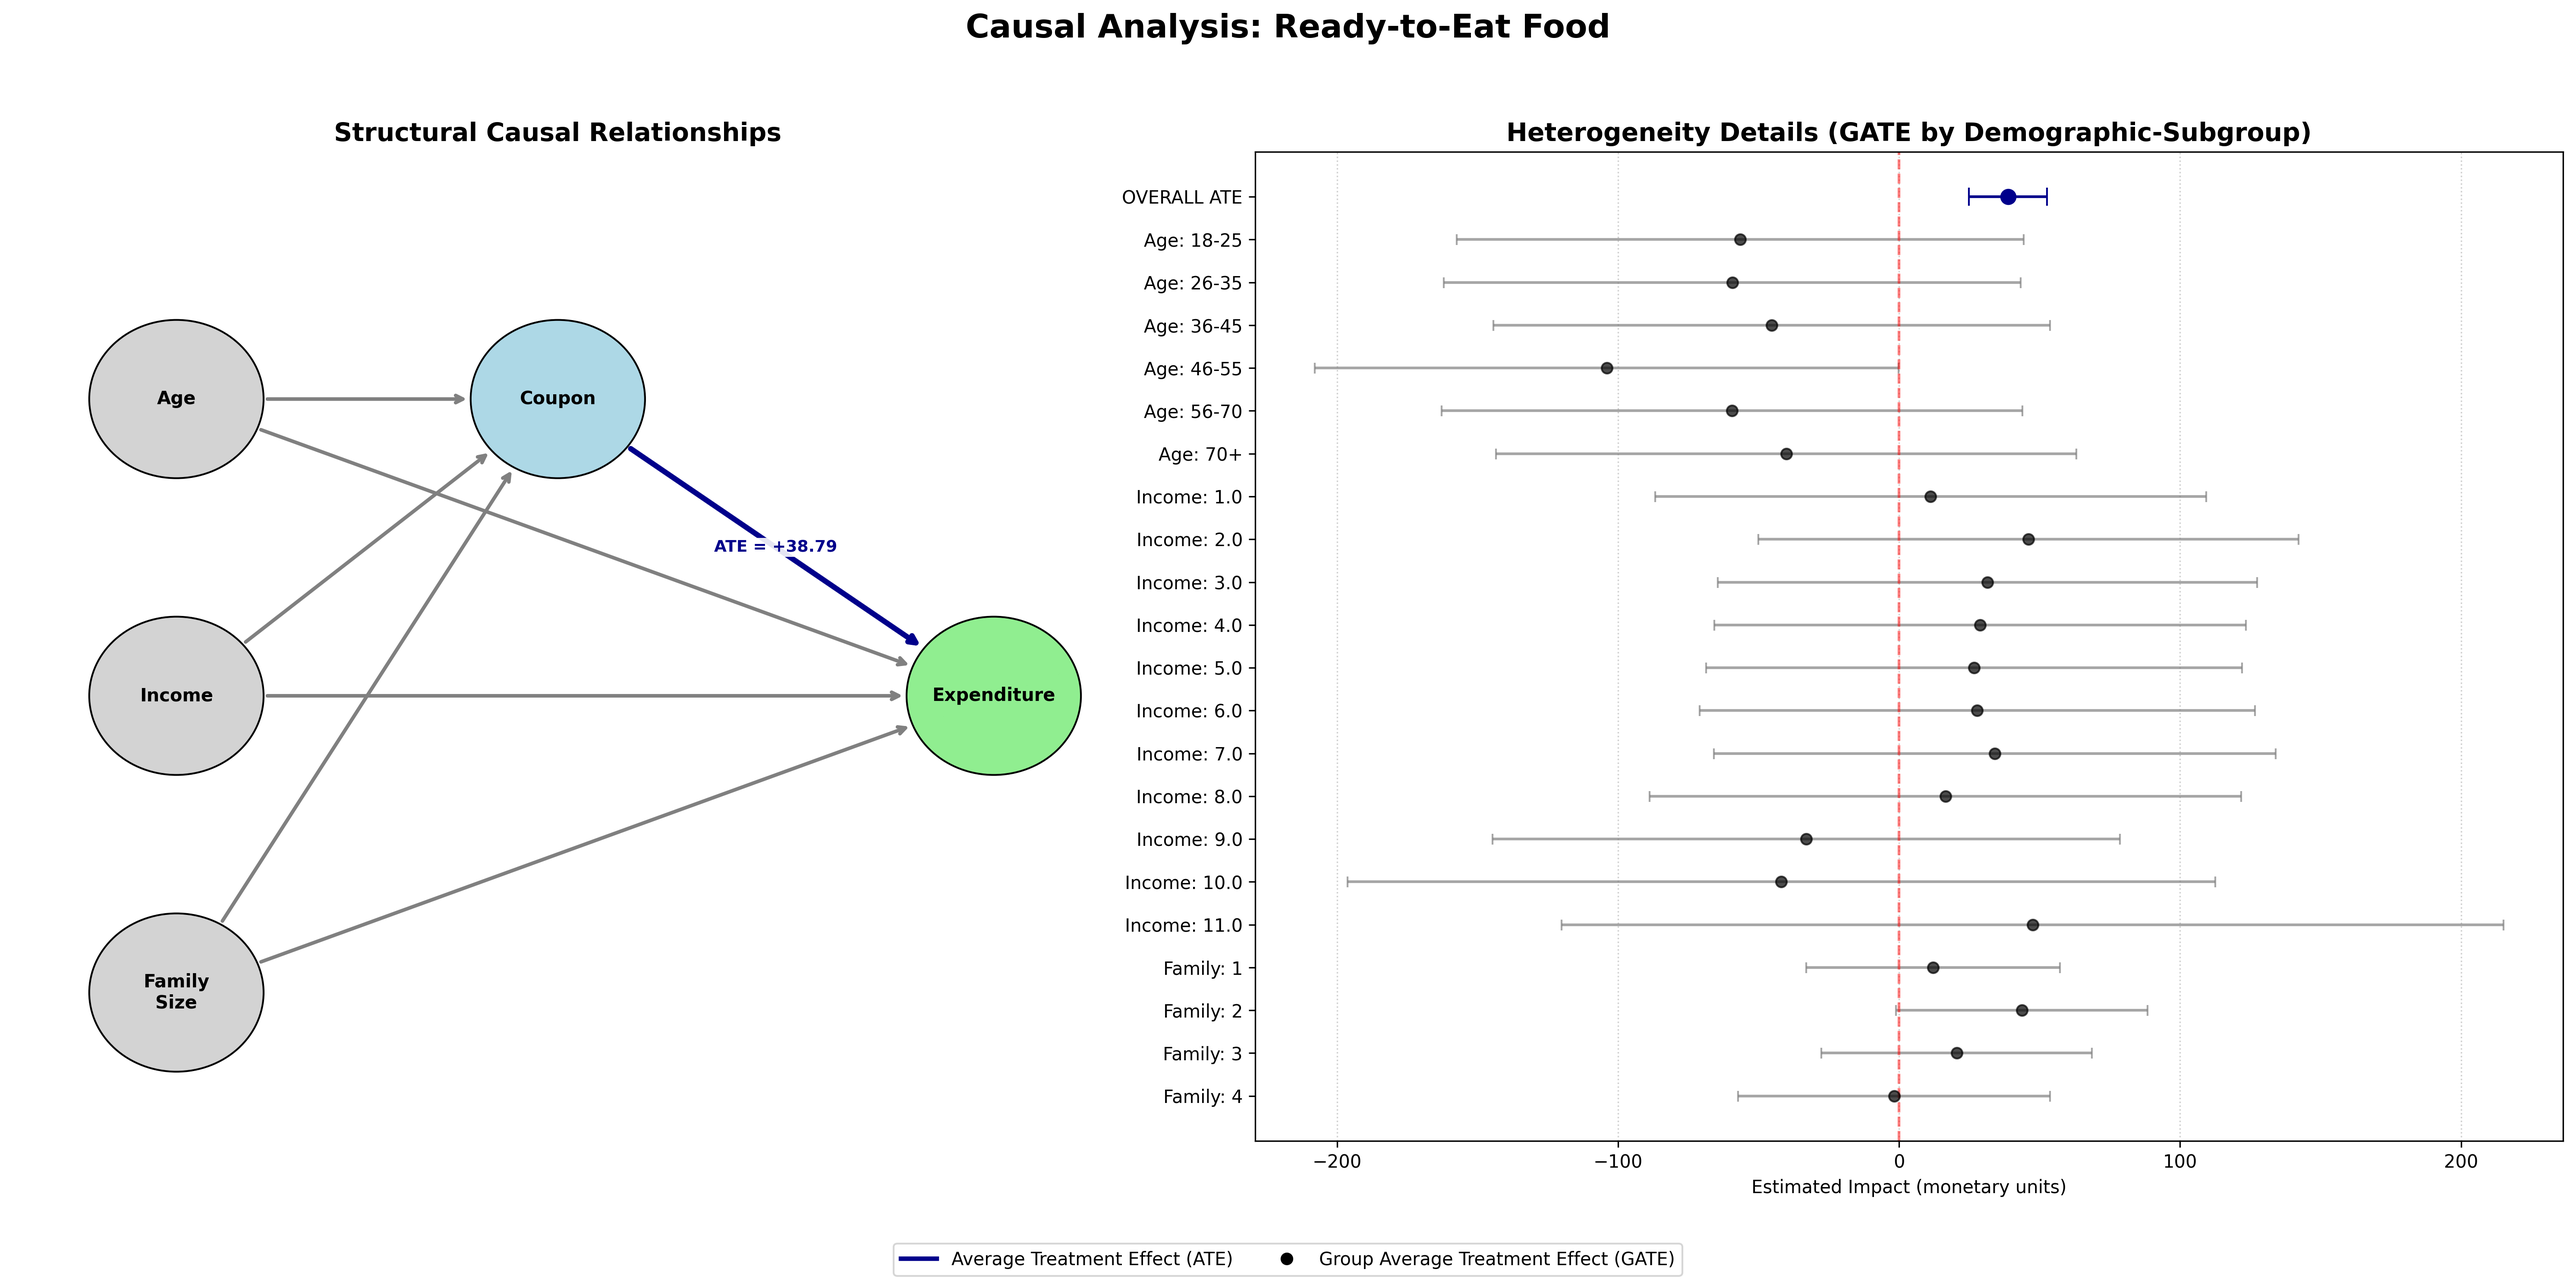
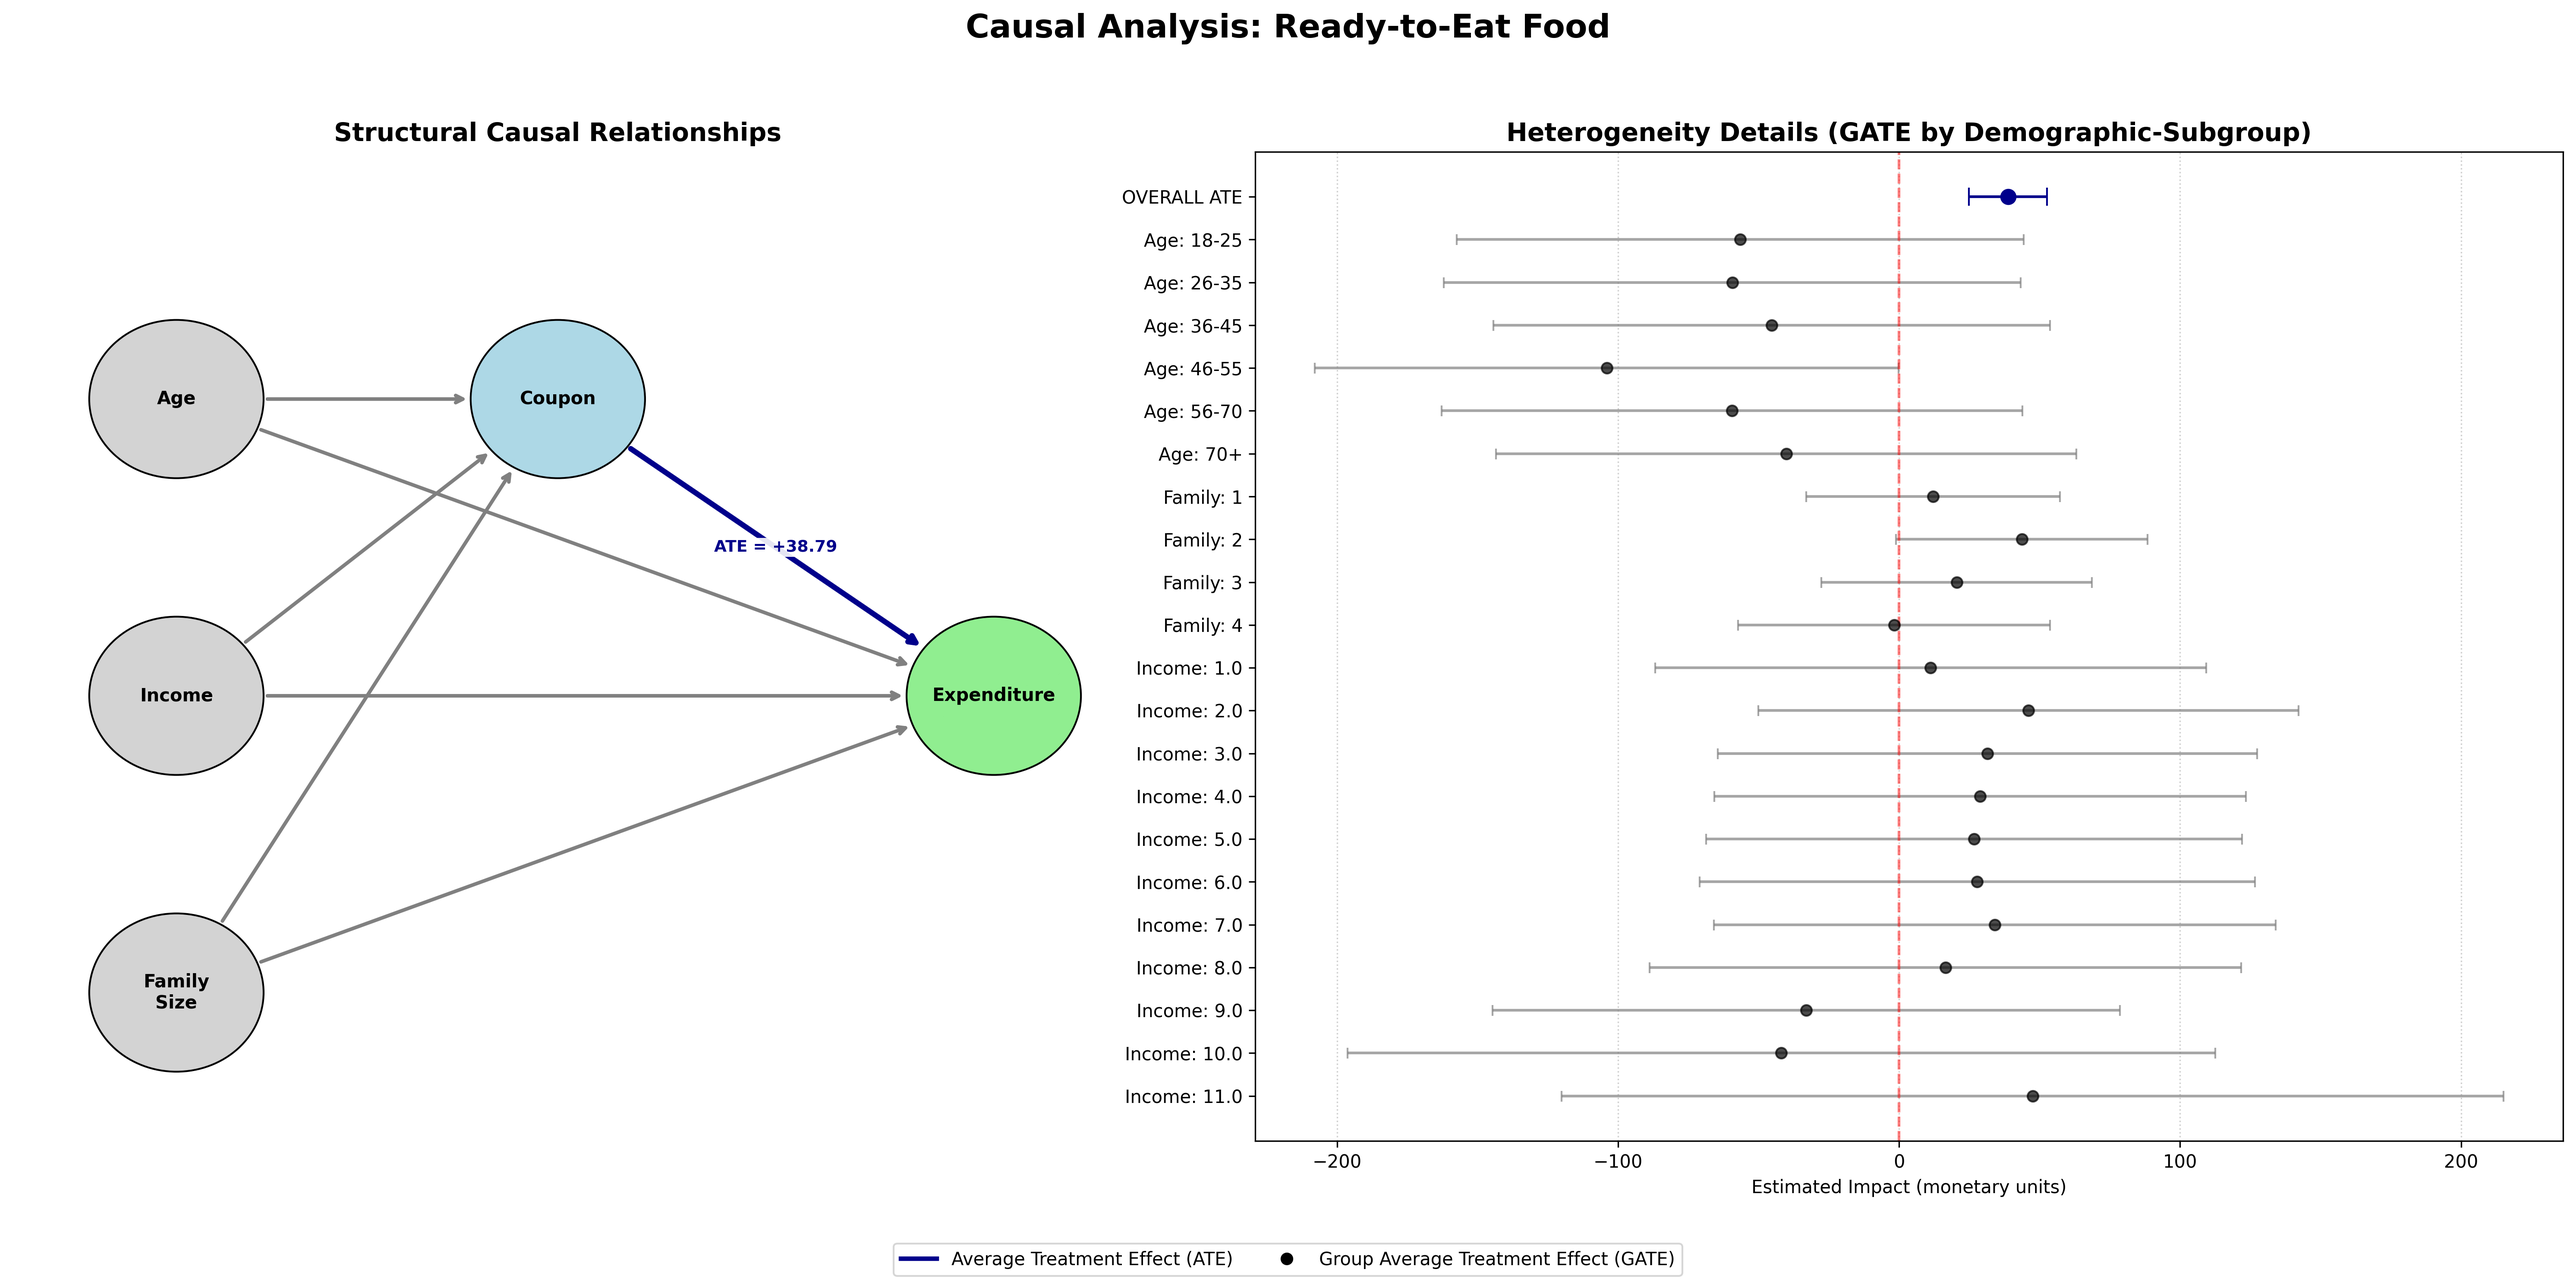
Fixed y-axis order

Changed region(s): [[0.4362, 0.718, 0.4673, 0.8741], [0.4362, 0.3746, 0.4673, 0.4995]]

diff --git a/visualize_results.py b/visualize_results.py
@@ -63,6 +63,25 @@ def plot_summary_table():
         # 2. GATE Breakdown
         t_gate = gate_df[(gate_df["treatment"] == t_col) & (gate_df["variable"] != "(Intercept)")].copy()
         
+        def sort_key(var):
+            if "age_range" in var:
+                cat_order = 0
+                val = float(var.split("_")[-1].split(".")[0]) if "." in var.split("_")[-1] else 0
+            elif "family_size" in var:
+                cat_order = 1
+                f_val = var.split("_")[-1]
+                val = float(f_val.replace("+", ""))
+            elif "income_bracket" in var:
+                cat_order = 2
+                val = float(var.split("_")[-1])
+            else:
+                cat_order = 3
+                val = 0
+            return (cat_order, val)
+
+        t_gate["sort_val"] = t_gate["variable"].apply(sort_key)
+        t_gate = t_gate.sort_values("sort_val", ascending=True)
+        
         def parse_var(v):
             if "age_range" in v: 
                 val = v.replace("age_range_", "").replace(".", "-")
@@ -441,13 +460,13 @@ def plot_causal_dag():
             if "age_range" in var:
                 cat_order = 0
                 val = float(var.split("_")[-1].split(".")[0]) if "." in var.split("_")[-1] else 0
-            elif "income_bracket" in var:
-                cat_order = 1
-                val = float(var.split("_")[-1])
             elif "family_size" in var:
-                cat_order = 2
+                cat_order = 1
                 f_val = var.split("_")[-1]
                 val = float(f_val.replace("+", ""))
+            elif "income_bracket" in var:
+                cat_order = 2
+                val = float(var.split("_")[-1])
             else:
                 cat_order = 3
                 val = 0
@@ -590,14 +609,14 @@ def plot_implied_density_ridge():
                     parts = var.split("_")[-1].split(".")
                     val = float(parts[0]) if parts[0].isdigit() else 0
                 except: val = 0
-            elif "income_bracket" in var:
-                cat_order = 1
-                try: val = float(var.split("_")[-1])
-                except: val = 0
             elif "family_size" in var:
-                cat_order = 2
+                cat_order = 1
                 f_val = var.split("_")[-1]
                 try: val = float(f_val.replace("+", ""))
+                except: val = 0
+            elif "income_bracket" in var:
+                cat_order = 2
+                try: val = float(var.split("_")[-1])
                 except: val = 0
             else:
                 cat_order = 3
@@ -605,7 +624,7 @@ def plot_implied_density_ridge():
             return (cat_order, val)
 
         t_gate["sort_val"] = t_gate["variable"].apply(sort_key)
-        t_gate = t_gate.sort_values("sort_val", ascending=False)
+        t_gate = t_gate.sort_values("sort_val", ascending=True)
         
         for _, g_row in t_gate.iterrows():
             if g_row["variable"] == "(Intercept)": continue
